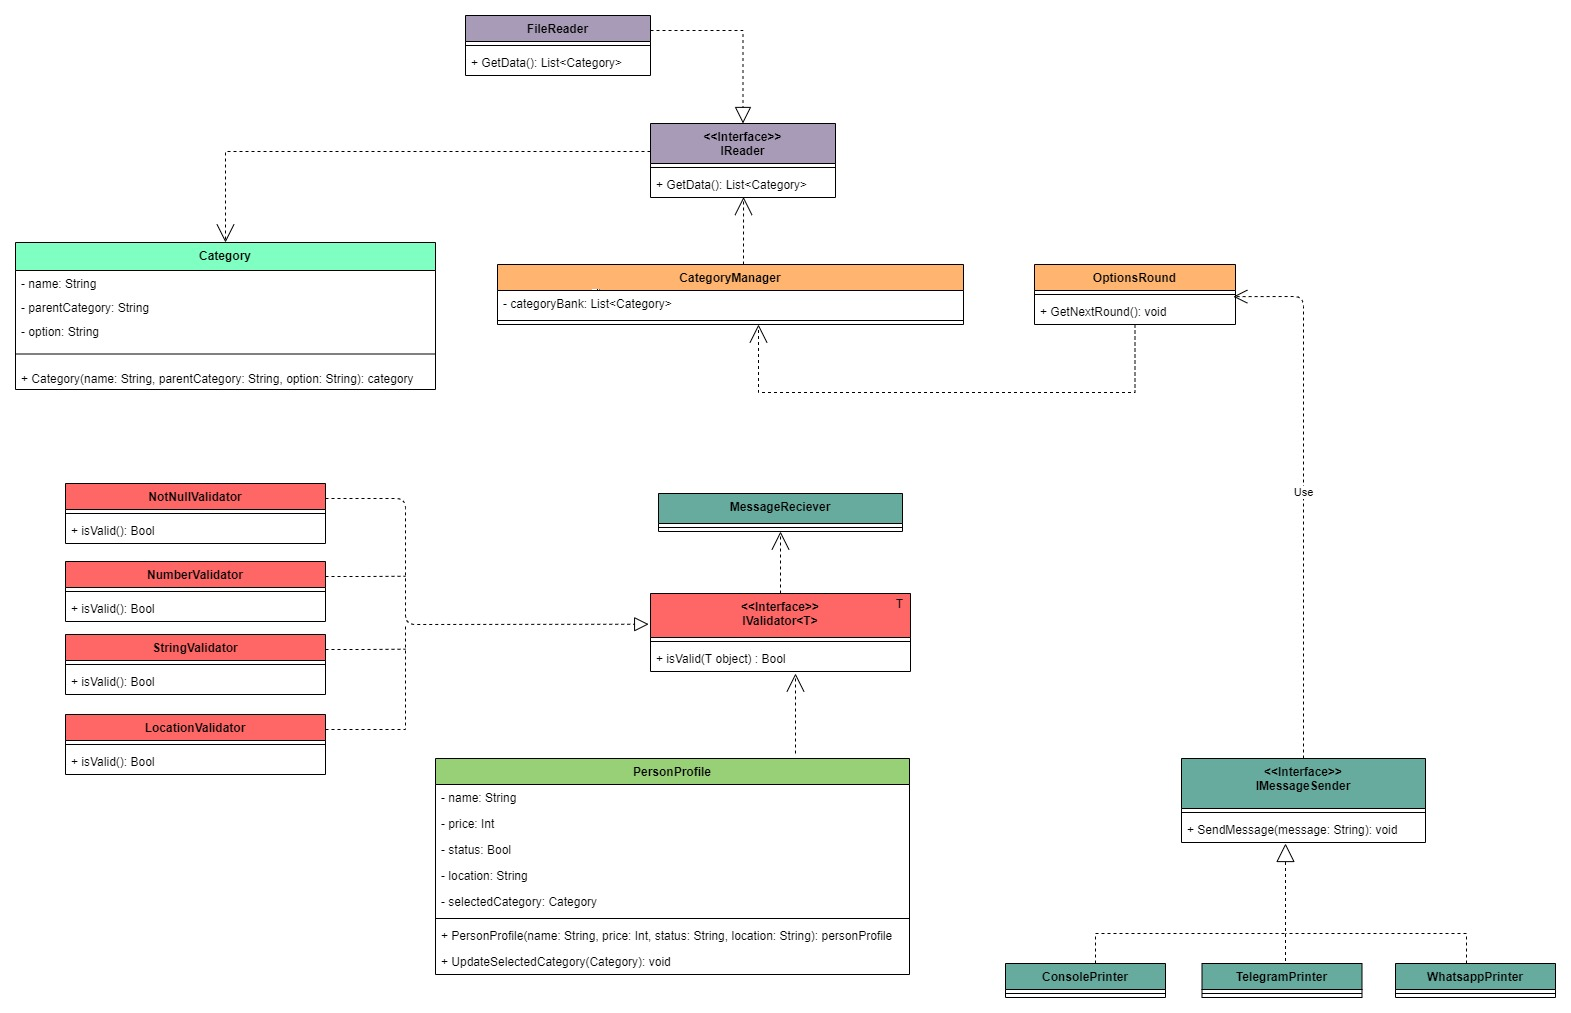
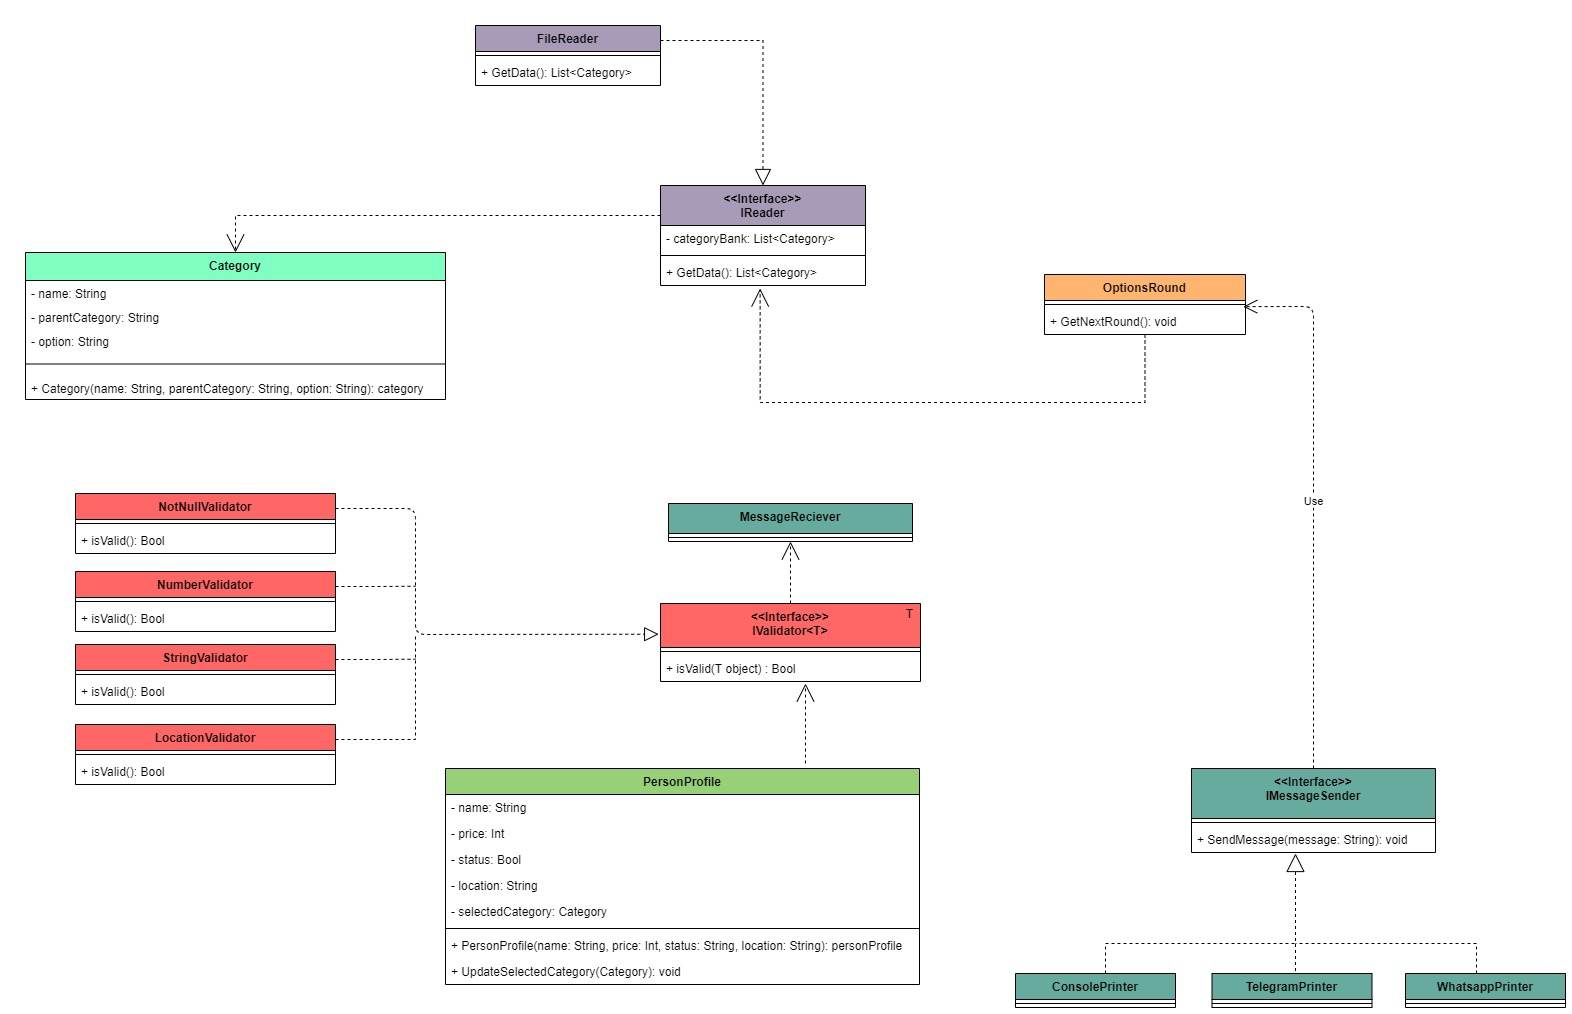
Hago comentarios en clases e interfaces. Subo diagrama.

diff --git a/src/Library/PersonProfile.cs b/src/Library/PersonProfile.cs
@@ -4,7 +4,13 @@ using System.Collections.Generic;
 namespace Library
 {
     /*
+    Actualmente la clase PersonProfile cumple con el principio SRP ya que no existe más de una razón de cambio.
+    La razon de cambio es cambiar la forma en que se construyen las instancias de PersonProfile.
+    
+    Atualmente la clase FileReader cumple con el patrón Expert ya que es la clase experta en conocer los datos
+    para crear instancias de la clase PersonProfile.
     */
+    
     public class PersonProfile
     {
         public string Name {get;}

diff --git a/src/Library/IValidator.cs b/src/Library/IValidator.cs
@@ -4,6 +4,9 @@ using System.Collections.Generic;
 namespace Library
 {
     /*
+    Las operaciones de la interfaz IValidator son polimórficas ya que tiene cuatro clases (NotNullValidator,
+    NumberValidator, LocationValidator, StringValidator) que implementan esas operaciones. 
+    Por esta razon se cumple con el patrón de polimorfismo.
     */
     public interface IValidator <T>
     {

diff --git a/src/Library/IMessageSender.cs b/src/Library/IMessageSender.cs
@@ -4,6 +4,9 @@ using System.Collections.Generic;
 namespace Library
 {
     /*
+    Las operaciones de la interfaz IMesssageSender son polimórficas ya que tiene tres clases (ConsolePrinter,
+    TelegramPrinter, WhatsappPrinter) que implementan esas operaciones. Por esta razon se cumple 
+    con el patrón de polimorfismo.
     */
     public interface IMessageSender
     {

diff --git a/src/Library/LocationValidator.cs b/src/Library/LocationValidator.cs
@@ -4,6 +4,8 @@ using System.Collections.Generic;
 namespace Library
 {
      /*
+     La clase LocationValidator implementa la interfaz IValidator por lo que debe implementar las operaciones 
+     polimórficas, por lo tanto cumple con el patron de Polimorfismo.
      */
      public class LocationValidator : IValidator <String>
      {

diff --git a/src/Library/NotNullValidator.cs b/src/Library/NotNullValidator.cs
@@ -4,6 +4,8 @@ using System.Collections.Generic;
 namespace Library
 {
      /*
+     La clase NotNullValidator implementa la interfaz IValidator por lo que debe implementar las operaciones 
+     polimórficas, por lo tanto cumple con el patron de Polimorfismo.
      */
      public class NotNullValidator : IValidator<String>
      {

diff --git a/src/Library/TelegramPrinter.cs b/src/Library/TelegramPrinter.cs
@@ -4,6 +4,8 @@ using System.Collections.Generic;
 namespace Library
 {
      /*
+     La clase TelegramPrinter implementa la interfaz IMessageSender por lo que debe implementar las operaciones 
+     polimórficas por lo tanto cumple con el patron de Polimorfismo.
      */
      public class TelegramPrinter : IMessageSender
      {

diff --git a/src/Library/WhatsappPrinter.cs b/src/Library/WhatsappPrinter.cs
@@ -4,6 +4,8 @@ using System.Collections.Generic;
 namespace Library
 {
      /*
+     La clase WhatsappPrinter implementa la interfaz IMessageSender por lo que debe implementar las operaciones 
+     polimórficas por lo tanto cumple con el patron de Polimorfismo.
      */
      public class WhatsappPrinter : IMessageSender
      {

diff --git a/src/Library/ConsolePrinter.cs b/src/Library/ConsolePrinter.cs
@@ -4,6 +4,8 @@ using System.Collections.Generic;
 namespace Library
 {
      /*
+     La clase ConsolePrinter implementa la interfaz IMessageSender por lo que debe implementar las operaciones 
+     polimórficas por lo tanto cumple con el patron de Polimorfismo.
      */
      public class ConsolePrinter : IMessageSender
      {

diff --git a/src/Library/StringValidator.cs b/src/Library/StringValidator.cs
@@ -4,6 +4,8 @@ using System.Collections.Generic;
 namespace Library
 {
     /*
+    La clase StringValidator implementa la interfaz IValidator por lo que debe implementar las operaciones 
+    polimórficas, por lo tanto cumple con el patron de Polimorfismo.
     */
     public class StringValidator : IValidator<String>
     {

diff --git a/src/Library/NumberValidator.cs b/src/Library/NumberValidator.cs
@@ -4,6 +4,8 @@ using System.Collections.Generic;
 namespace Library
 {
     /*
+    La clase NumberValidator implementa la interfaz IValidator por lo que debe implementar las operaciones 
+    polimórficas, por lo tanto cumple con el patron de Polimorfismo.
     */
     public class NumberValidator : IValidator<Int32>
     {
